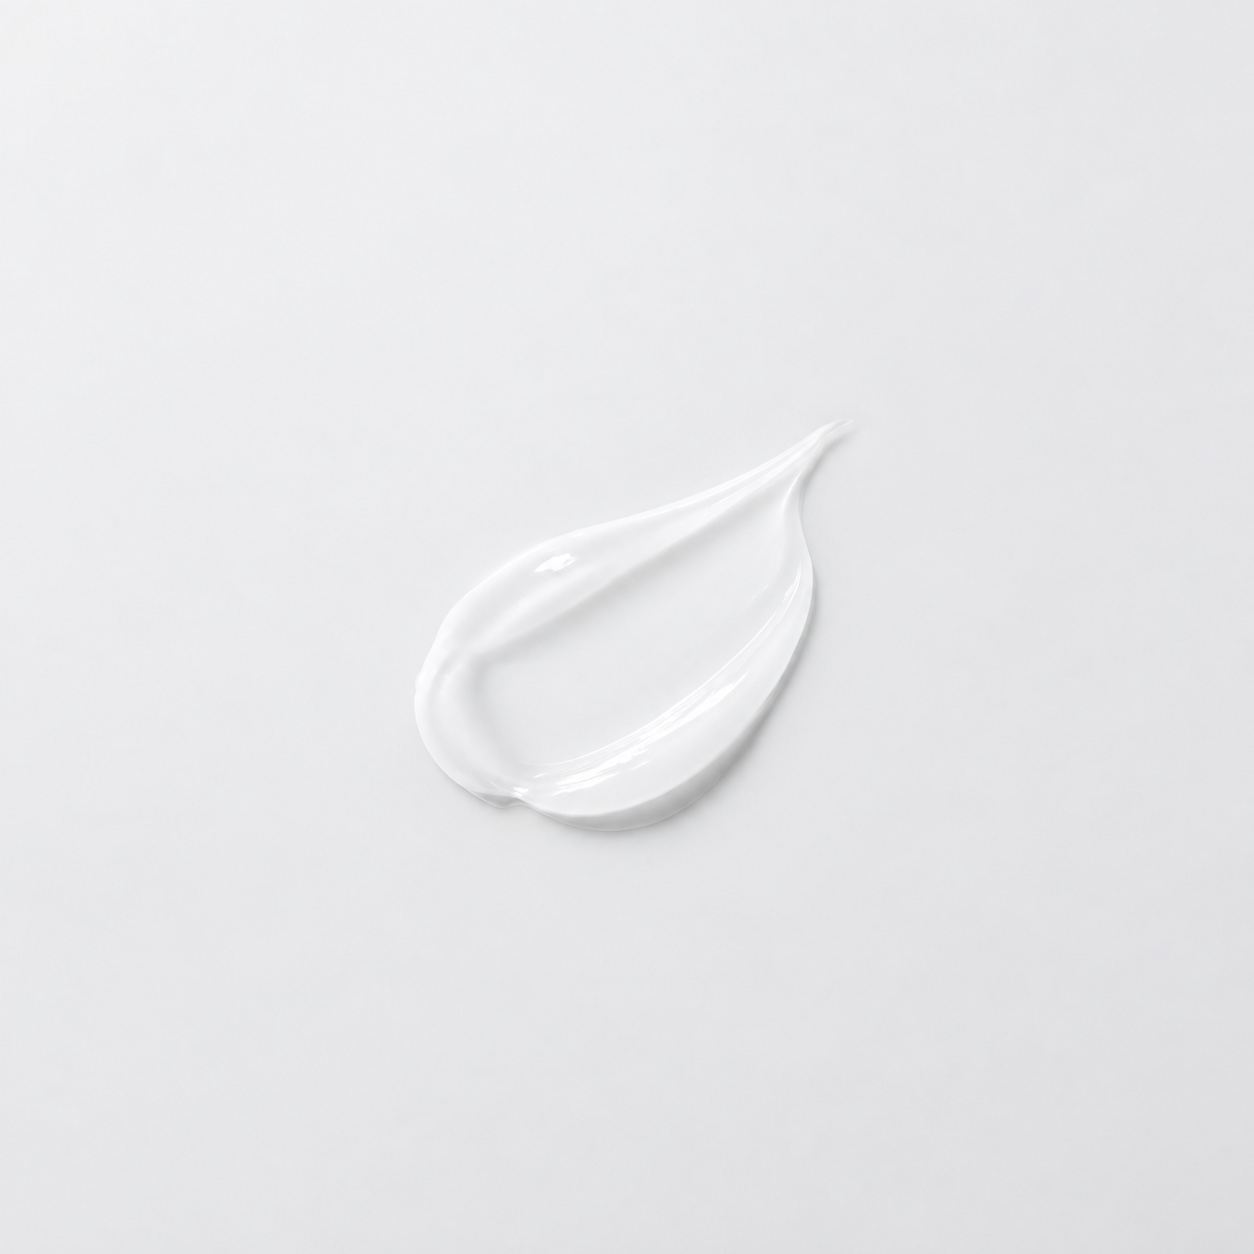
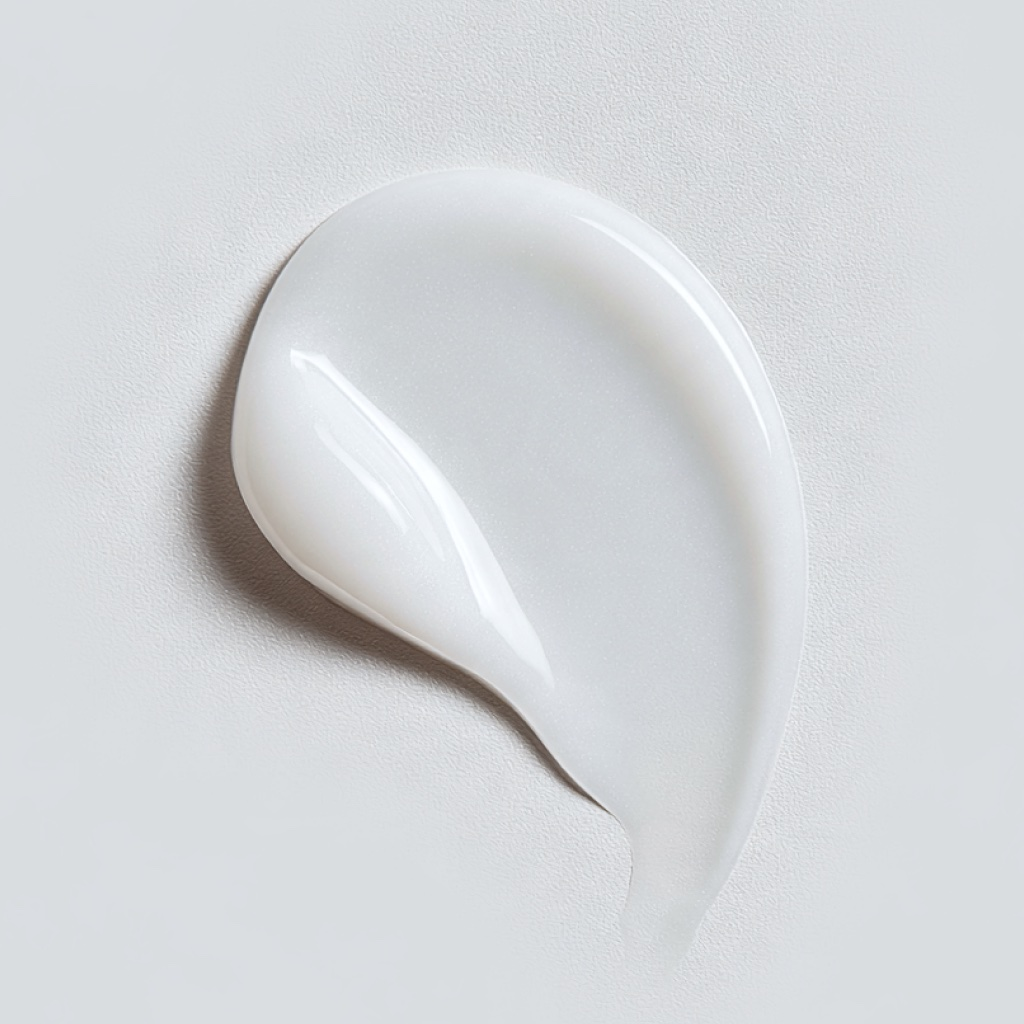
feat(portfolio): update facial care image and add hair care products
- Facial Care: replace the 7-Peptide Skin Moisturiser image with the Figma
  version (fills the frame, so its crop is removed)
- Hair Care: add the 9 products from Figma 'Portfolio — Hair Care' with
  their images, crops and order
- Category names on filter chips and cards use the Home tile names
  (Facial Care, Mask / Pad, Sun Care, Body Care, Hair Care); slugs unchanged
- Mask / Pad products are not added yet (key ingredients not confirmed)

Changed region(s): [[0.0625, 0.0, 0.8125, 0.8438]]

diff --git a/src/components/portfolio/products.ts b/src/components/portfolio/products.ts
@@ -1,7 +1,7 @@
 // Portfolio 카테고리·제품 정적 데이터와 필터 계산.
 // - 필터 칩 8개(All + 7개 카테고리, Figma 순서·표기). slug는 Home 카테고리 타일과 같다(product-categories.ts)
 // - PORTFOLIO_PRODUCTS: 카테고리별 확정 제품만 등록. 현재 확정 데이터는 Facial care 15개(Figma 'Portfolio — Facial care'),
-//   Cleansing 3개(Figma 'Portfolio — Cleansing' 첫 줄)
+//   Cleansing 3개(Figma 'Portfolio — Cleansing' 첫 줄), Hair care 9개(Figma 'Portfolio — Hair Care')
 //   다른 카테고리는 빈 배열 — 제품을 배열에 추가하면 해당 카테고리와 All에 자동 표시된다(UI 수정 불필요)
 // - All = 카테고리 순서대로 이어 붙인 목록(같은 id는 한 번만)
 import { PRODUCT_CATEGORY_SLUGS, type ProductCategorySlug } from "@/lib/config/product-categories";
@@ -26,20 +26,24 @@ export type PortfolioProduct = {
   tags: readonly string[];
 };
 
-/** Figma: Category Filter (All + 7) chip labels, in order. `cardLabel` is the category line on each product card. */
+/**
+ * Figma: Category Filter (All + 7) chip labels, in order. `cardLabel` is the category line on each product card.
+ * Both use the same Title Case names as the Home category tiles (2026-11-26 decision); slugs stay as they are.
+ */
 export const PORTFOLIO_FILTERS: readonly { slug: PortfolioCategory; label: string; cardLabel: string }[] = [
   { slug: "all", label: "All", cardLabel: "" },
-  { slug: "facial-care", label: "Facial Care", cardLabel: "Facial care" },
+  { slug: "facial-care", label: "Facial Care", cardLabel: "Facial Care" },
   { slug: "cleansing", label: "Cleansing", cardLabel: "Cleansing" },
   { slug: "mask-pad", label: "Mask / Pad", cardLabel: "Mask / Pad" },
-  { slug: "sun-care", label: "Sun Care", cardLabel: "Sun care" },
+  { slug: "sun-care", label: "Sun Care", cardLabel: "Sun Care" },
   { slug: "makeup", label: "Makeup", cardLabel: "Makeup" },
-  { slug: "body-care", label: "Body Care", cardLabel: "Body care" },
-  { slug: "hair-care", label: "Hair Care", cardLabel: "Hair care" },
+  { slug: "body-care", label: "Body Care", cardLabel: "Body Care" },
+  { slug: "hair-care", label: "Hair Care", cardLabel: "Hair Care" },
 ];
 
 const FACIAL_CARE = "/images/portfolio/facial-care";
 const CLEANSING = "/images/portfolio/cleansing";
+const HAIR_CARE = "/images/portfolio/hair-care";
 
 /** Confirmed products per category, in display order. Add products here (and their images under /public/images/portfolio/<slug>/). */
 export const PORTFOLIO_PRODUCTS: Record<ProductCategorySlug, readonly PortfolioProduct[]> = {
@@ -47,7 +51,7 @@ export const PORTFOLIO_PRODUCTS: Record<ProductCategorySlug, readonly PortfolioP
   "facial-care": [
     { id: "ghk-cu-copper-peptide-serum", name: "GHK- Cu Copper Peptide Serum", image: `${FACIAL_CARE}/ghk-cu-copper-peptide-serum.jpg`, crop: { l: -8.85, t: -9.11, w: 117.97, h: 117.97 }, keyIngredients: ["Copper Tripeptide-1", "Niacinamide"], tags: ["Firming", "WrinkleCare", "DeepHydration"] },
     { id: "pdrn-radiance-serum", name: "PDRN Radiance Serum", image: `${FACIAL_CARE}/pdrn-radiance-serum.jpg`, crop: { l: -1.37, t: -11.2, w: 101.44, h: 134.64 }, keyIngredients: ["PDRN", "Ceramides", "Niacinamide"], tags: ["SkinRecovery", "BarrierCare", "RadiantGlow"] },
-    { id: "7-peptide-skin-moisturiser", name: "7-Peptide Skin Moisturiser", image: `${FACIAL_CARE}/7-peptide-skin-moisturiser.jpg`, crop: { l: -41.15, t: -43.19, w: 182.55, h: 182.55 }, keyIngredients: ["Peptide Complex", "Hyaluronic Acid"], tags: ["Firming", "BarrierRepair", "DeepHydration"] },
+    { id: "7-peptide-skin-moisturiser", name: "7-Peptide Skin Moisturiser", image: `${FACIAL_CARE}/7-peptide-skin-moisturiser.jpg`, keyIngredients: ["Peptide Complex", "Hyaluronic Acid"], tags: ["Firming", "BarrierRepair", "DeepHydration"] },
     { id: "liposomal-retinol-eye-cream", name: "Liposomal Retinol Eye Cream", image: `${FACIAL_CARE}/liposomal-retinol-eye-cream.jpg`, crop: { l: -11.2, t: -16.67, w: 143.23, h: 143.23 }, keyIngredients: ["Retinol", "Niacinamide", "Adenosine"], tags: ["FineLineCare", "SkinRenewal", "EyeFirming"] },
     { id: "retinal-facial-cream", name: "Retinal Facial Cream", image: `${FACIAL_CARE}/retinal-facial-cream.jpg`, crop: { l: -3.91, t: -2.86, w: 107.81, h: 107.81 }, keyIngredients: ["Retinal", "Tranexamic Acid", "Adenosine"], tags: ["WrinkleCare", "Firming", "EvenSkinTone"] },
     { id: "vitamin-c-brightening-serum", name: "Vitamin C Brightening Serum", image: `${FACIAL_CARE}/vitamin-c-brightening-serum.jpg`, crop: { l: -1.04, t: 0, w: 101.04, h: 101.04 }, keyIngredients: ["Niacinamide", "Vitamin C"], tags: ["Brightening", "RadiantGlow", "Antioxidant"] },
@@ -72,7 +76,18 @@ export const PORTFOLIO_PRODUCTS: Record<ProductCategorySlug, readonly PortfolioP
   "sun-care": [],
   makeup: [],
   "body-care": [],
-  "hair-care": [],
+  /** Figma: Portfolio — Hair Care (772:6695) › Product Grid, rows 1–3 (confirmed 2026-11-26). */
+  "hair-care": [
+    { id: "beer-yeast-shampoo", name: "Beer Yeast Shampoo", image: `${HAIR_CARE}/beer-yeast-shampoo.jpg`, crop: { l: 0, t: -3.91, w: 103.91, h: 103.91 }, keyIngredients: ["Beer Yeast Extract", "Salicylic Acid"], tags: ["AntiHairLoss", "ScalpCare", "HairStrengthening"] },
+    { id: "damage-repair-shampoo", name: "Damage Repair Shampoo", image: `${HAIR_CARE}/damage-repair-shampoo.jpg`, crop: { l: -2.6, t: -2.6, w: 104.95, h: 104.95 }, keyIngredients: ["Hydrolyzed Proteins", "Amino Acids"], tags: ["DamageRepair", "HairStrengthening", "Nourishing"] },
+    { id: "damage-care-shampoo", name: "Damage Care Shampoo", image: `${HAIR_CARE}/damage-care-shampoo.jpg`, crop: { l: -6.51, t: -3.65, w: 113.02, h: 113.02 }, keyIngredients: ["Hydrolyzed Collagen", "Niacinamide"], tags: ["DamageRepair", "HairElasticity", "Shine"] },
+    { id: "beer-yeast-scalp-serum", name: "Beer Yeast Scalp Serum", image: `${HAIR_CARE}/beer-yeast-scalp-serum.jpg`, keyIngredients: ["Beer Yeast Extract", "Botanical Extracts"], tags: ["ScalpSoothing", "ScalpCare", "RootStrengthening"] },
+    { id: "brush-hair-serum", name: "Brush Hair Serum", image: `${HAIR_CARE}/brush-hair-serum.jpg`, crop: { l: 0, t: -11.2, w: 116.93, h: 116.93 }, keyIngredients: ["Centella Asiatica", "PDRN", "Salicylic Acid"], tags: ["ScalpSoothing", "DandruffCare", "HairVolume"] },
+    { id: "tea-tree-scalp-tonic", name: "Tea Tree Scalp Tonic", image: `${HAIR_CARE}/tea-tree-scalp-tonic.jpg`, crop: { l: -2.08, t: -1.04, w: 102.08, h: 102.08 }, keyIngredients: ["Tea Tree Oil", "Salicylic Acid"], tags: ["ScalpPurifying", "OilControl", "Cooling"] },
+    { id: "damage-repair-treatment-mask", name: "Damage Repair Treatment & Mask", image: `${HAIR_CARE}/damage-repair-treatment-mask.jpg`, crop: { l: 0, t: -10.16, w: 113.02, h: 113.02 }, keyIngredients: ["Keratin Complex", "Panthenol"], tags: ["DamageRepair", "Smoothing", "DeepNourishing"] },
+    { id: "no-wash-hair-treatment-mist", name: "No-Wash Hair Treatment & Mist", image: `${HAIR_CARE}/no-wash-hair-treatment-mist.jpg`, crop: { l: -3.65, t: -53.65, w: 107.03, h: 160.68 }, keyIngredients: ["Hydrolyzed Keratin", "Argan Oil"], tags: ["DeepMoisture", "Detangling", "Smoothing"] },
+    { id: "silk-hair-oil-serum", name: "Silk Hair Oil & Serum", image: `${HAIR_CARE}/silk-hair-oil-serum.jpg`, crop: { l: -17.19, t: -15.1, w: 130.21, h: 130.21 }, keyIngredients: ["Proteins & Amino Acids", "Botanical Oils"], tags: ["SilkyShine", "FrizzControl", "DamageCare"] },
+  ],
 };
 
 /** A product with the category it is listed under (for the card's category line). */

diff --git a/tests/portfolio/ordering.test.ts b/tests/portfolio/ordering.test.ts
@@ -35,10 +35,12 @@ test("All lists every product exactly once", () => {
   assert.deepEqual([...all].sort(), [...allSource].sort());
 });
 
-test("current data: Cleansing 3→1 then Facial care 15→1", () => {
+test("current data: Hair care 9→1, then Cleansing 3→1, then Facial care 15→1", () => {
   const all = portfolioProducts("all");
-  assert.deepEqual(ids(all.slice(0, 3)), ["heartleaf-cleansing-oil", "pore-deep-cleansing-oil", "centella-cleansing-oil"]);
-  assert.equal(all[3].id, "rice-moisture-multi-balm-stick");
+  assert.equal(all[0].id, "silk-hair-oil-serum");
+  assert.equal(all[8].id, "beer-yeast-shampoo");
+  assert.deepEqual(ids(all.slice(9, 12)), ["heartleaf-cleansing-oil", "pore-deep-cleansing-oil", "centella-cleansing-oil"]);
+  assert.equal(all[12].id, "rice-moisture-multi-balm-stick");
   assert.equal(all.at(-1)?.id, "ghk-cu-copper-peptide-serum");
 });
 
